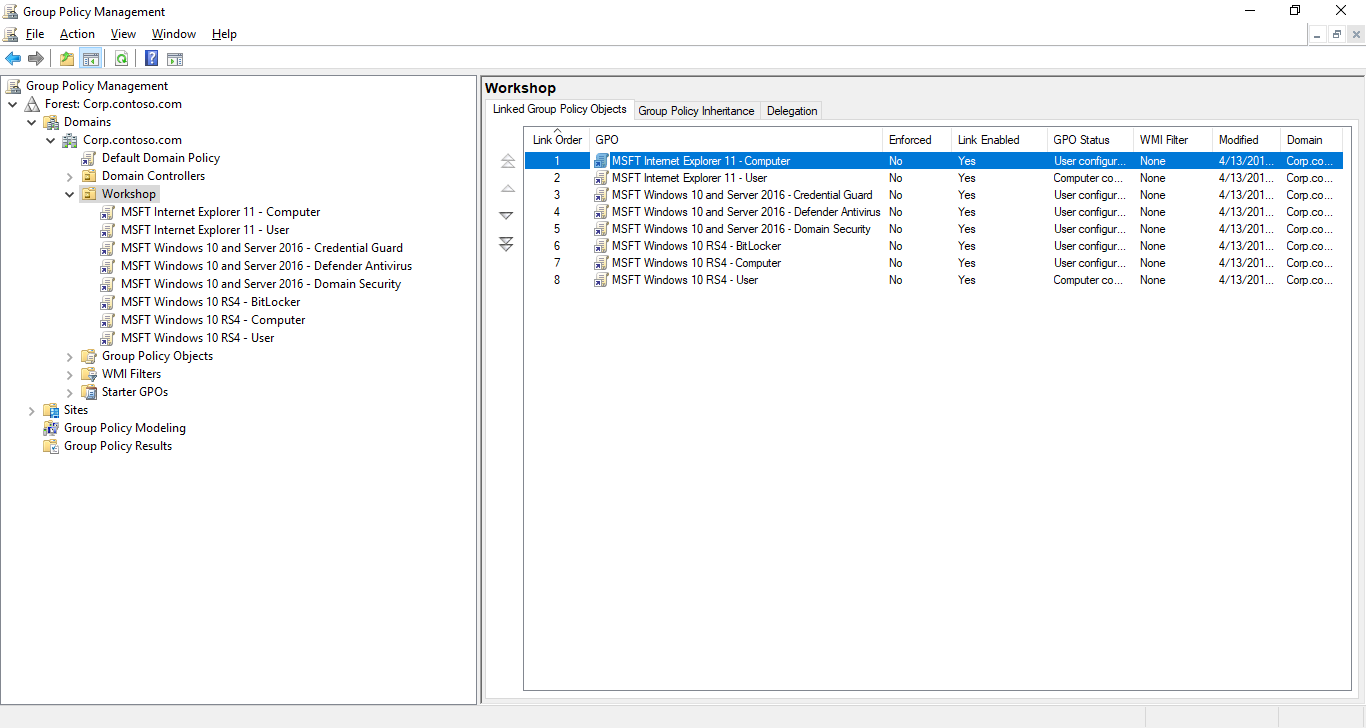
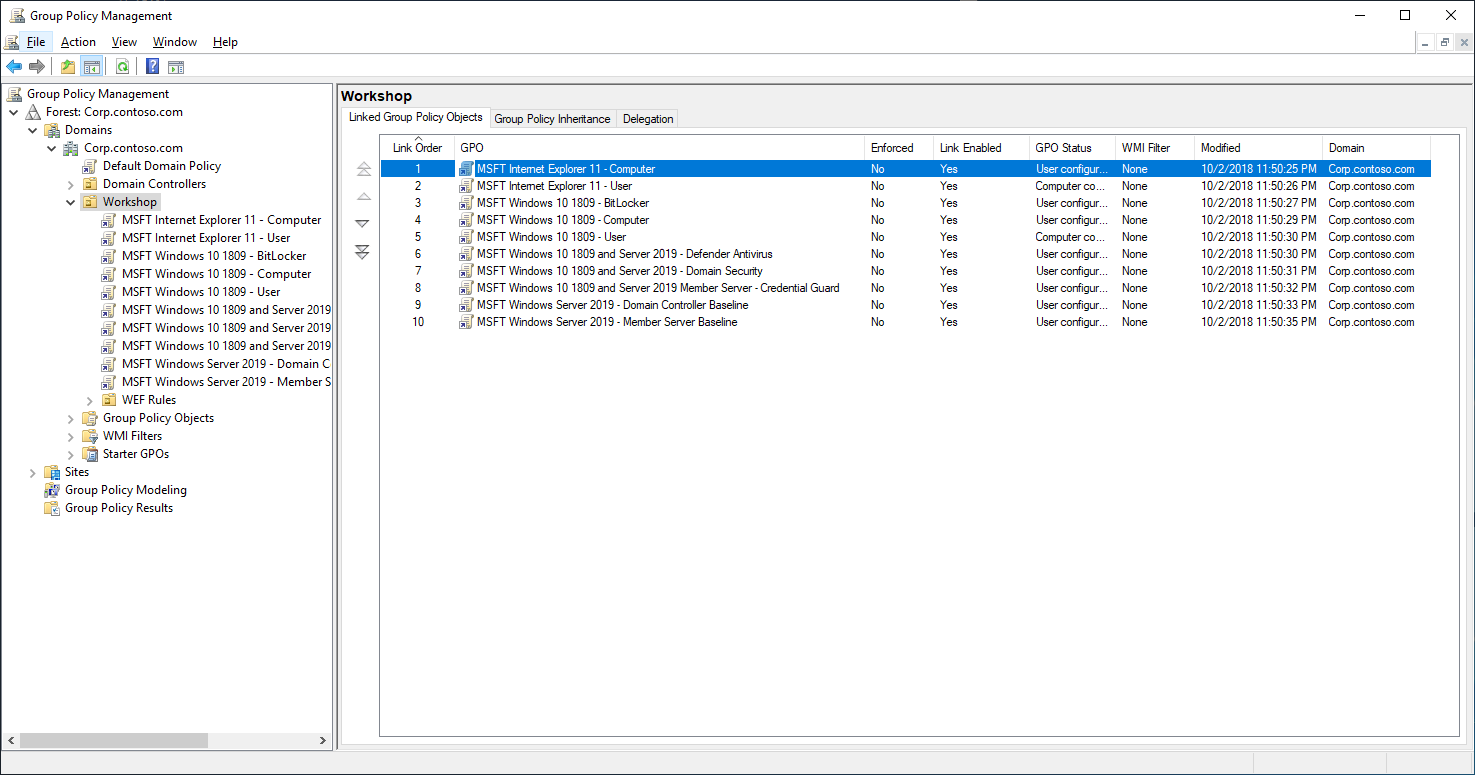
New baselines released
Former-commit-id: 34fe4c7912fec1da316925ec3f40a429d0a90c54

Changed region(s): [[0.0, 0.0, 1.0, 0.967], [0.0, 0.9368, 1.0, 1.0]]

diff --git a/Scenarios/SecGuide GPOs/readme.md b/Scenarios/SecGuide GPOs/readme.md
@@ -19,15 +19,15 @@ $LabConfig.VMs += @{ VMName = 'Win10' ; Configuration = 'Simple' ; ParentVHD = '
 #easiest is to run the script in DC. You can download GPOs on another machine and just file copy into dc Downloads
 
 #download GPOs and unzip
-Invoke-WebRequest -UseBasicParsing -Uri https://msdnshared.blob.core.windows.net/media/2018/04/Windows-10-RS4-Security-Baseline-FINAL.zip -OutFile "$env:UserProfile\Downloads\Windows-10-RS4-Security-Baseline-FINAL.zip"
-Expand-Archive -Path "$env:UserProfile\Downloads\Windows-10-RS4-Security-Baseline-FINAL.zip" -DestinationPath "$env:UserProfile\Downloads\"
+Invoke-WebRequest -UseBasicParsing -Uri https://msdnshared.blob.core.windows.net/media/2018/10/Windows-10-1809-Security-Baseline-DRAFT.zip -OutFile "$env:UserProfile\Downloads\Windows-10-1809-Security-Baseline-DRAFT.zip"
+Expand-Archive -Path "$env:UserProfile\Downloads\Windows-10-1809-Security-Baseline-DRAFT.zip" -DestinationPath "$env:UserProfile\Downloads\Windows-10-1809-Security-Baseline-DRAFT"
 
 #create GPOs
 $OUPath="ou=workshop,dc=corp,dc=contoso,dc=com"
-$names=(Get-ChildItem "$env:UserProfile\Downloads\Windows-10-RS4-Security-Baseline-FINAL\GP Reports").BaseName
+$names=(Get-ChildItem "$env:UserProfile\Downloads\Windows-10-1809-Security-Baseline-DRAFT\GP Reports").BaseName
 foreach ($name in $names) {
     New-GPO -Name $name  | New-GPLink -Target $OUPath
-    Import-GPO -BackupGpoName $name -TargetName $name -path "$env:UserProfile\Downloads\Windows-10-RS4-Security-Baseline-FINAL\GPOs"
+    Import-GPO -BackupGpoName $name -TargetName $name -path "$env:UserProfile\Downloads\Windows-10-1809-Security-Baseline-DRAFT\GPOs"
 }
  
 ```
